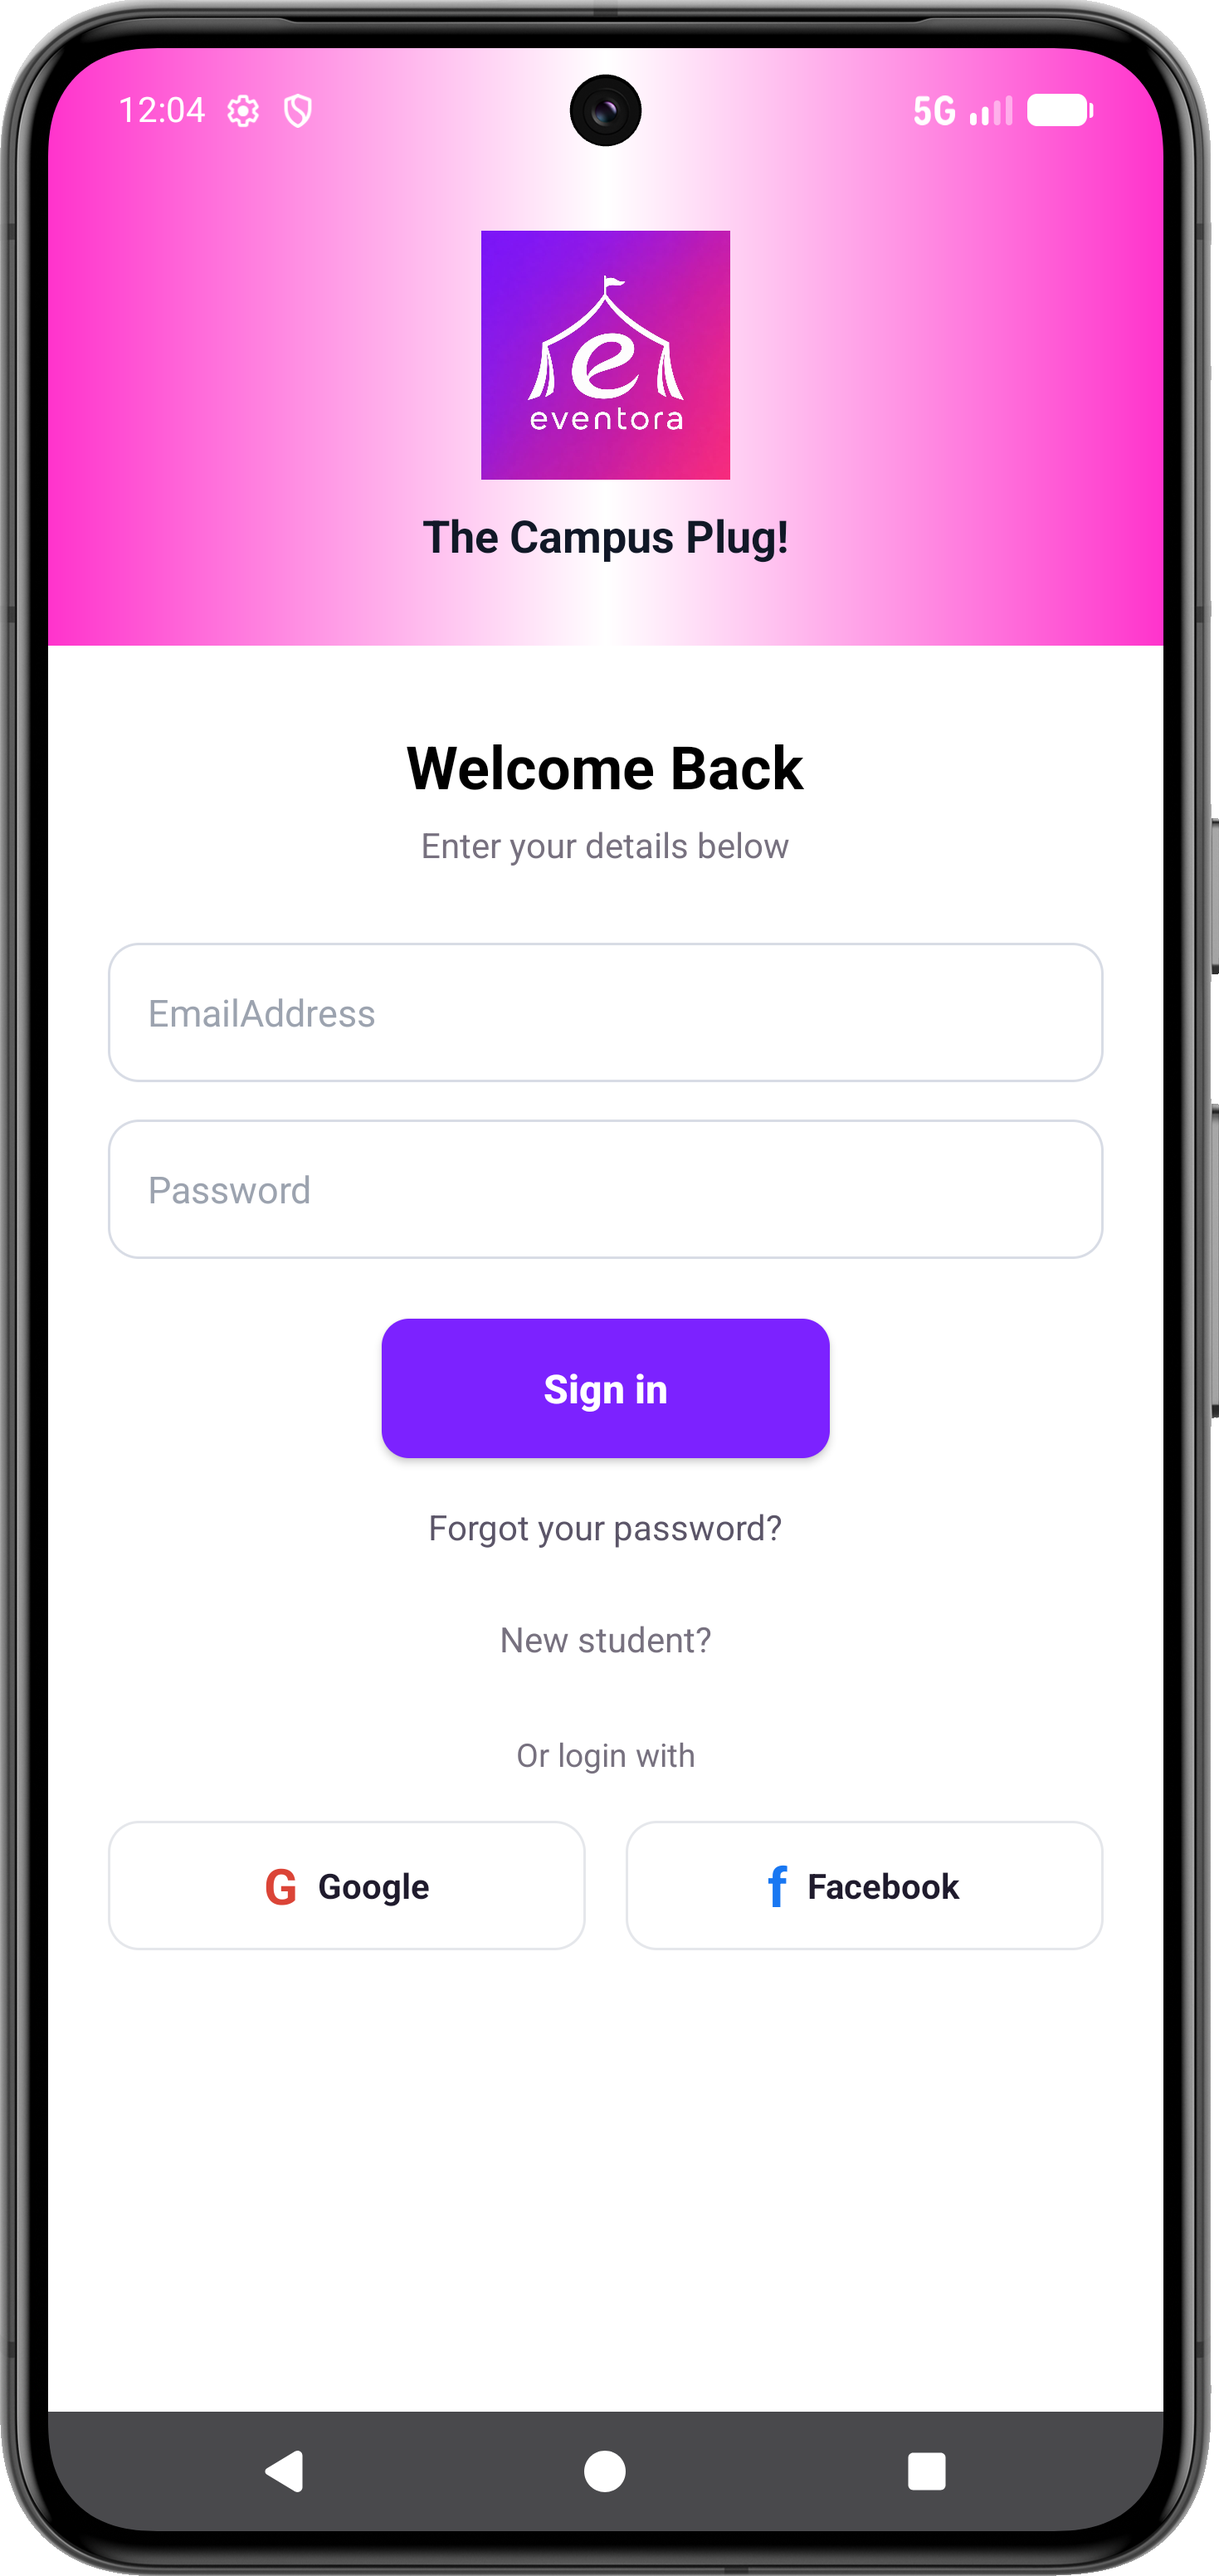
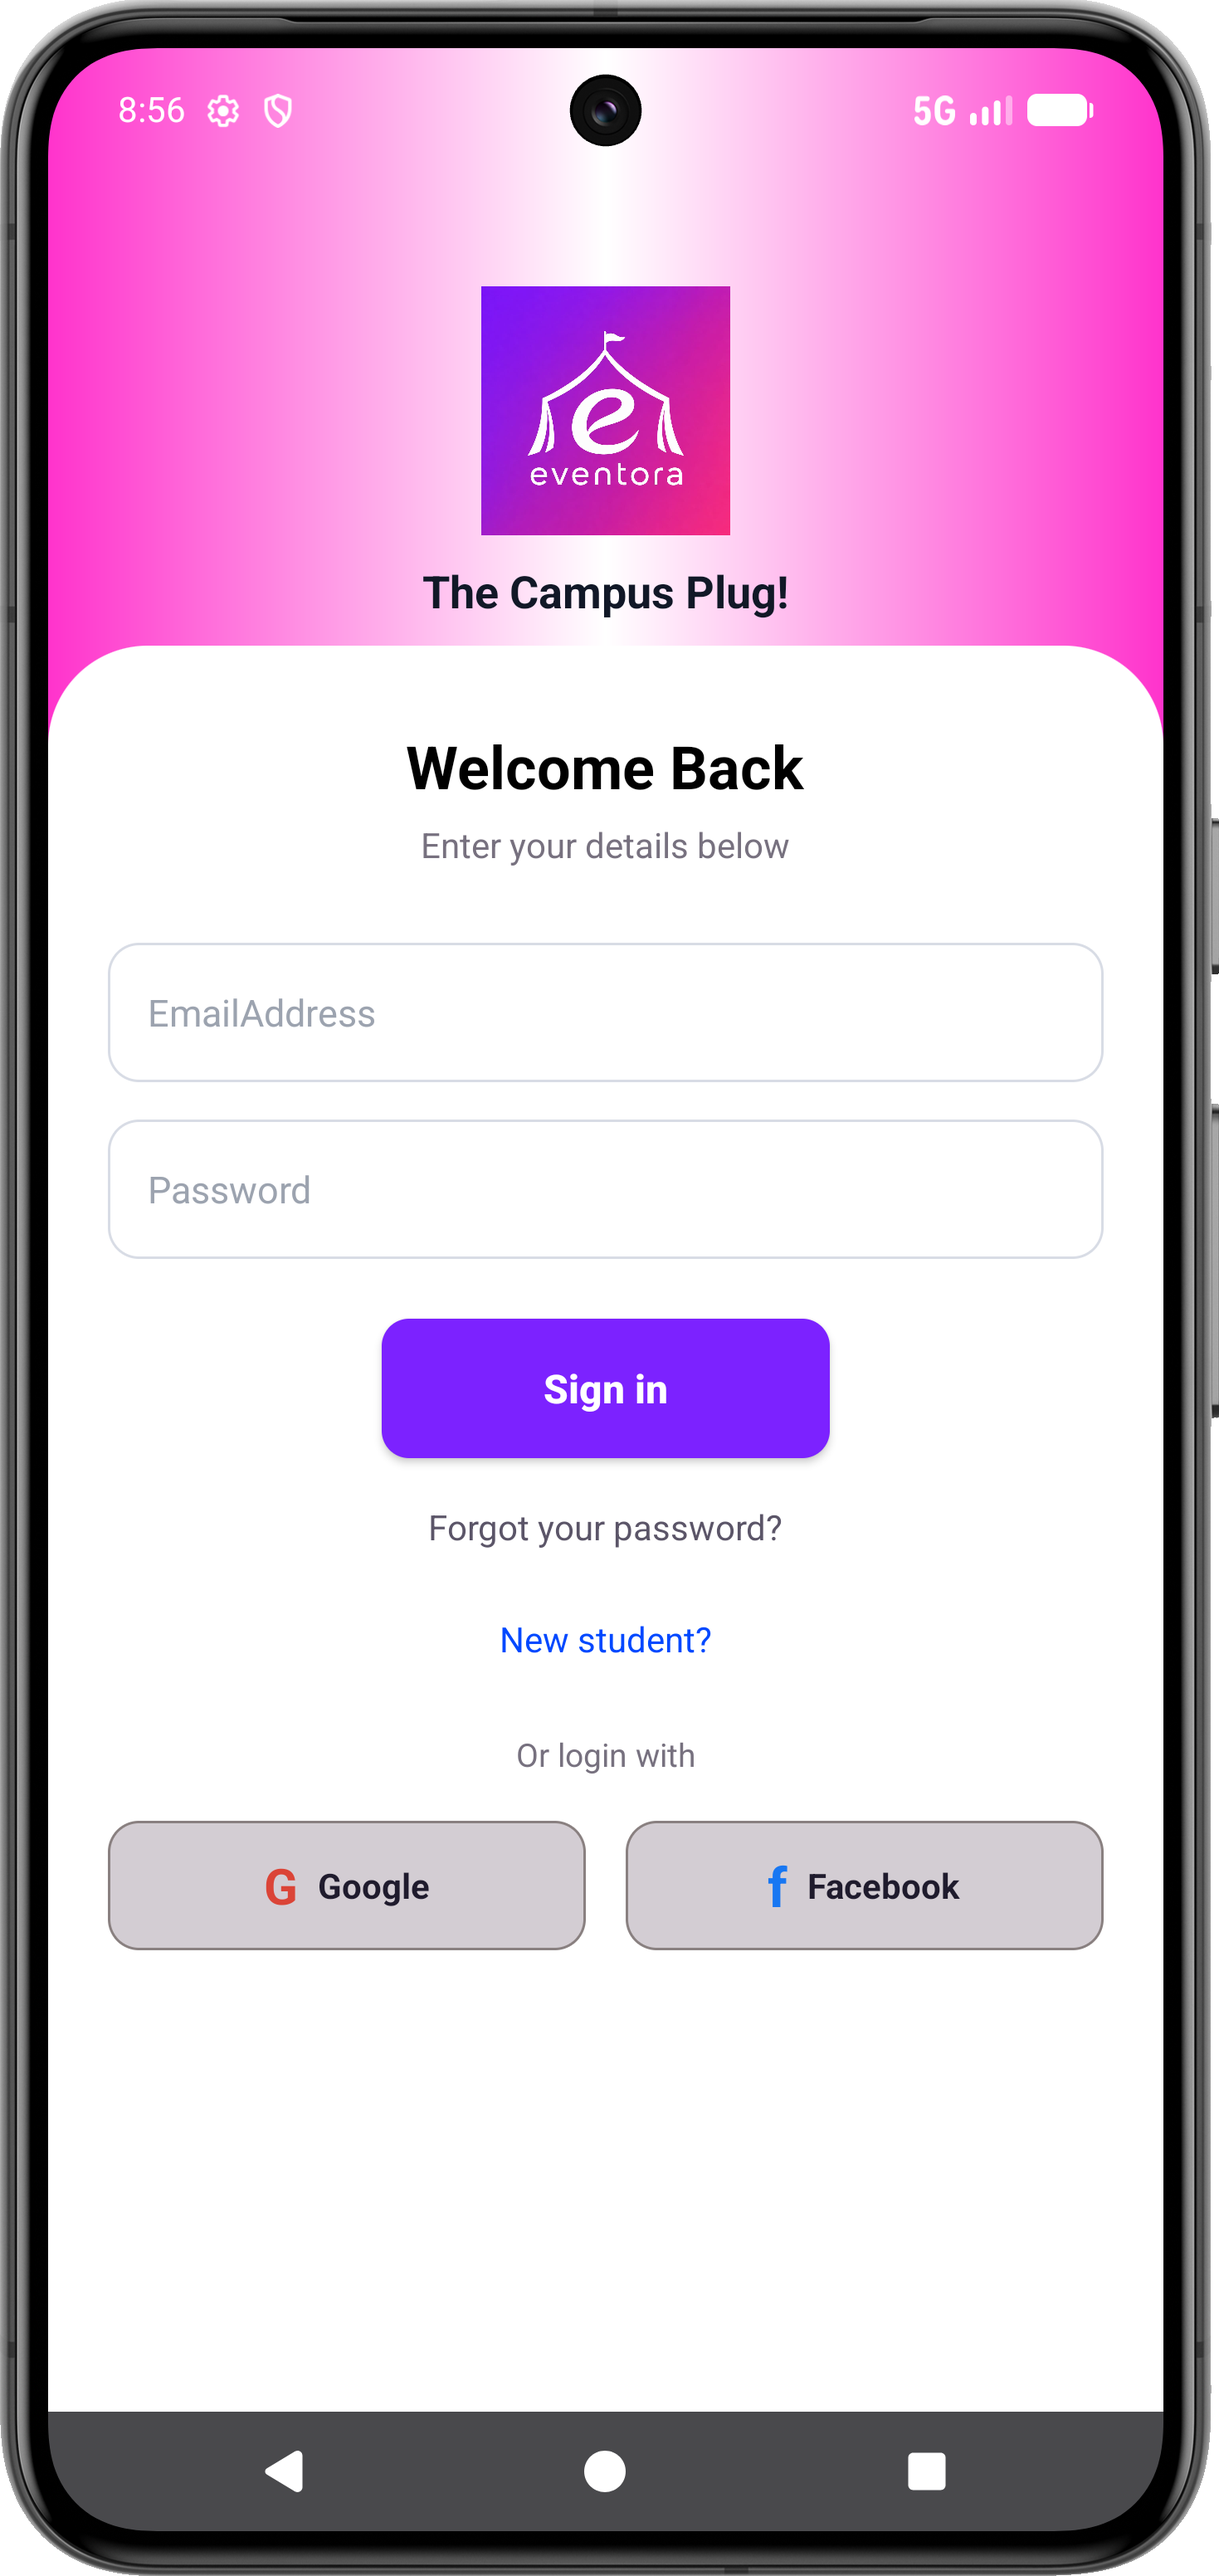
Added the Register activity

diff --git a/app/src/main/java/com/example/eventora/RegisterActivity.java b/app/src/main/java/com/example/eventora/RegisterActivity.java
@@ -6,18 +6,20 @@ import android.view.View;
 import android.widget.TextView;
 import androidx.appcompat.app.AppCompatActivity;
 
-public class LoginActivity extends AppCompatActivity {
+public class RegisterActivity extends AppCompatActivity {
+
     @Override
     protected void onCreate(Bundle savedInstanceState) {
         super.onCreate(savedInstanceState);
-        setContentView(R.layout.activity_login);
+        setContentView(R.layout.activity_register);
 
-        TextView txtNewStudent = findViewById(R.id.txtNewStudent);
-        txtNewStudent.setOnClickListener(new View.OnClickListener() {
+        TextView txtSignIn = findViewById(R.id.txtSignIn);
+        txtSignIn.setOnClickListener(new View.OnClickListener() {
             @Override
             public void onClick(View v) {
-                Intent intent = new Intent(LoginActivity.this, RegisterActivity.class);
+                Intent intent = new Intent(RegisterActivity.this, LoginActivity.class);
                 startActivity(intent);
+                finish(); // Optional: close register page so back button doesn't go back to it
             }
         });
     }
